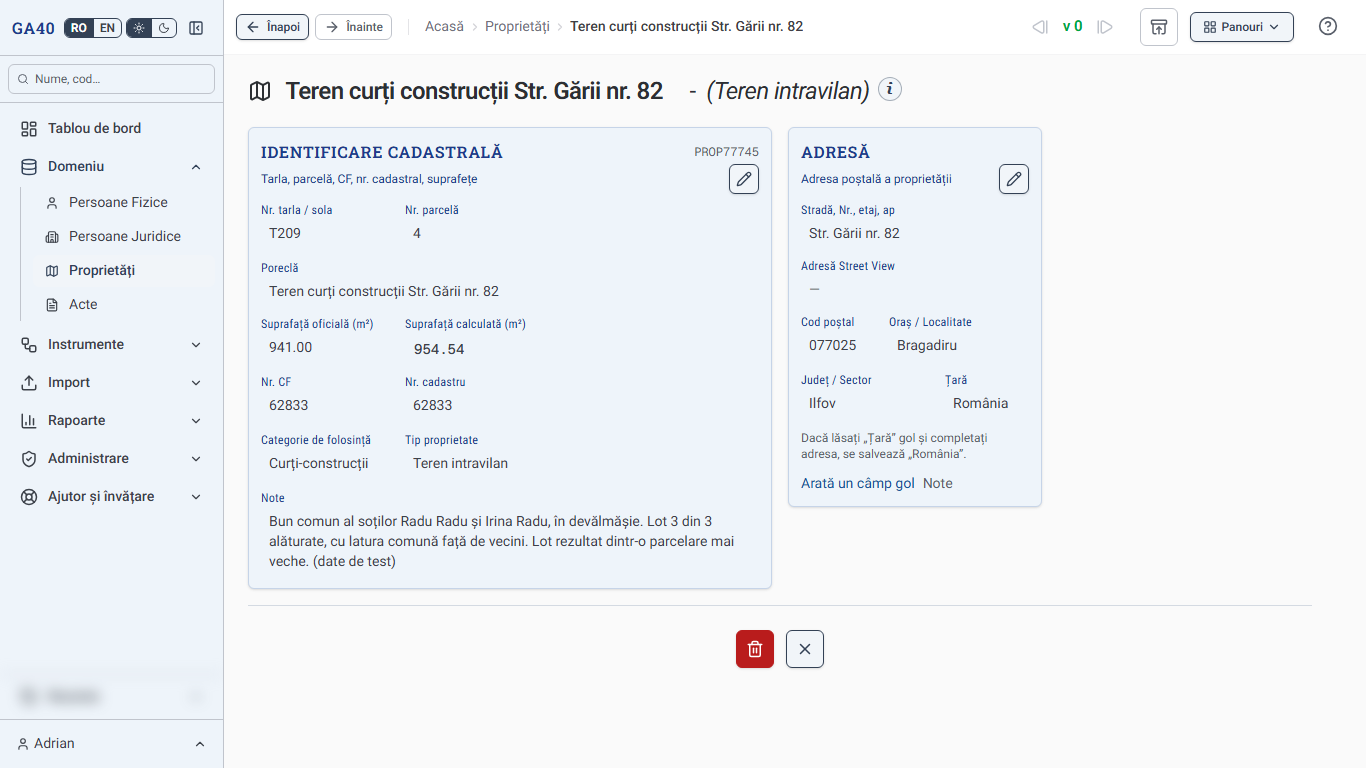
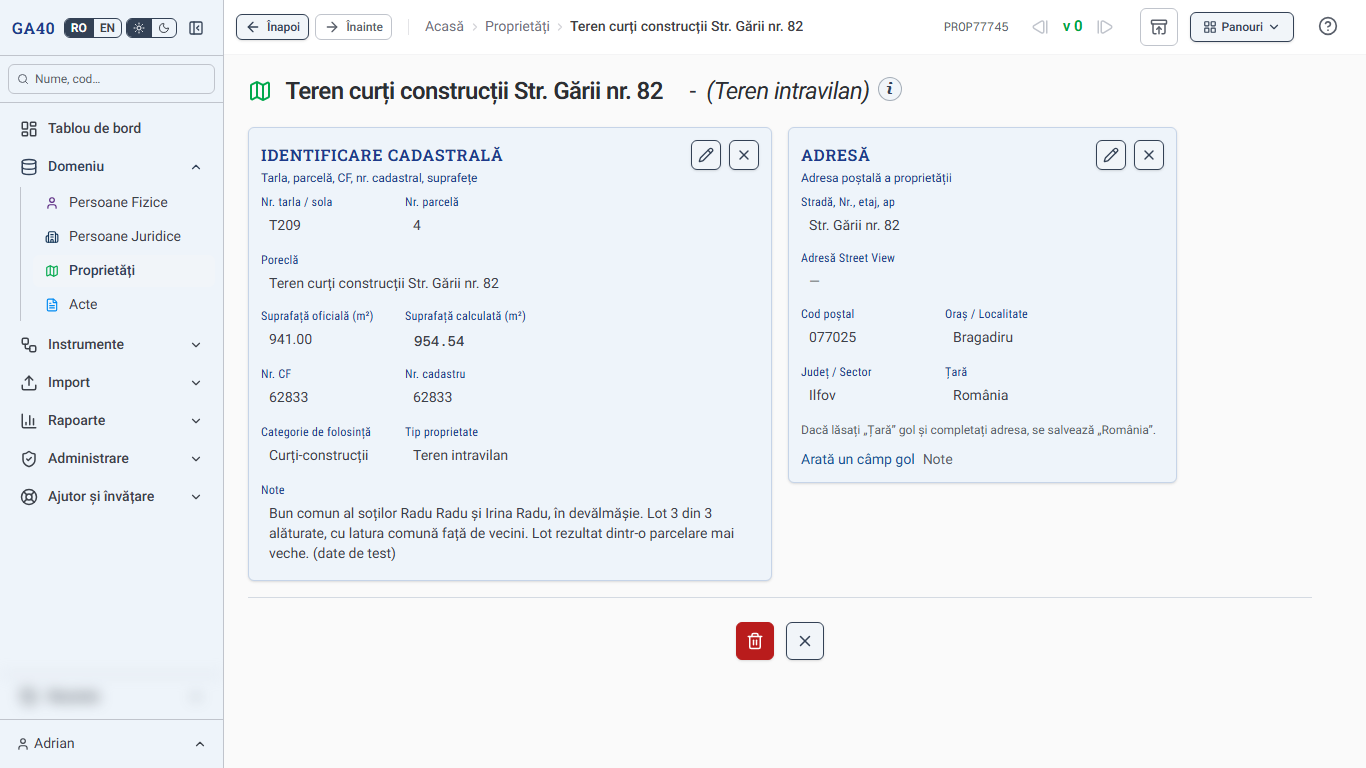
docs(manual): chapters 5, 8 and 9 after 41.13–41.85, and „Caută pe hartă" (41.93)
Both languages:
- chapter 5: the code in the bar, left of the versions (41.22); the address on
  two rows of pairs, „Țară" from „Țara adresei" (41.35, 41.51); the map, corners
  and Street View tiles green (41.68); „Colțuri"'s four buttons on one line
  (41.57); the parcel green on its map, its corners in the sides' colour (41.69);
  5.4.4 „Hartă extinsă" opening in two parts and closing in reverse, the lengths
  in „Setări" (41.69, 41.75, 41.77); „Navighează la …" (41.22);
- chapter 8: the shapes and drops green, champagne outlines (41.69); four groups
  on the toolbar, the search first (41.70); a new section 8.1.7 „Caută pe hartă"
  {#map-search} — what it finds, the flight and its two settings, more matches or
  none, the address look-up's charge (41.70, 41.76);
- chapter 9: the „Navigare" guide shows „Caută pe hartă" too (41.70).
Outline: map-search added; map-what, properties-corners-map,
properties-corners-expanded and tools-area say what their sections now hold.
The „Navigare" guide (messages, both languages) no longer says the flight
always takes four seconds: its length is set in „Setări" since 41.76.
Quiz corrected in place: properties-draw-corners a9, b9.
Figures re-shot from the dev seed, both languages, 0 maps: properties-list,
properties-record.

Claude-Session: https://claude.ai/code/session_011Fi7mpRoEhCFzhM2R3W5NG

diff --git a/src/lib/manual/content/ro-RO/08-map.ts b/src/lib/manual/content/ro-RO/08-map.ts
@@ -11,10 +11,11 @@ Câteva gesturi ale hărții nu se văd pe nicio etichetă: dublu-clicul, apăsa
 
 ## 8.1 Ce arată harta {#map-what}
 
-Ecranul se numește „Toate Proprietățile”. Harta se deschide potrivită astfel încât să încapă toate proprietățile pe care le desenează. Fiecare proprietate cu colțuri apare ca o formă albastră, cu laturile unite în ordinea colțurilor ei, iar colțurile ei sunt puncte mici de aceeași culoare. Când micșorați harta și o formă devine prea mică pentru a se citi, în locul ei apare o picătură (secțiunea [[map-what-drops]]). O proprietate fără colțuri nu are contur, deci nu apare pe hartă; colțurile i se pot adăuga oricând, în „Puncte de contur” (secțiunea [[properties-corners-table]]).
+Ecranul se numește „Toate Proprietățile”. Harta se deschide potrivită astfel încât să încapă toate proprietățile pe care le desenează. Fiecare proprietate cu colțuri apare ca o formă verde: laturile, unite în ordinea colțurilor ei, sunt verde închis, interiorul verde mai deschis, iar colțurile ei sunt puncte mici de culoarea laturilor. Când micșorați harta și o formă devine prea mică pentru a se citi, în locul ei apare o picătură (secțiunea [[map-what-drops]]). O proprietate fără colțuri nu are contur, deci nu apare pe hartă; colțurile i se pot adăuga oricând, în „Puncte de contur” (secțiunea [[properties-corners-table]]).
 
-Sus, pe hartă, stau butoanele ei. „HARTĂ” și „SATELIT” aleg harta străzilor sau imaginea din satelit, ca pe fișa „Hartă” a unei proprietăți. Celelalte butoane sunt uneltele hărții, în trei grupuri despărțite de un spațiu de două ori mai mare decât cel dintre butoane:
+Sus, pe hartă, stau butoanele ei. „HARTĂ” și „SATELIT” aleg harta străzilor sau imaginea din satelit, ca pe fișa „Hartă” a unei proprietăți. Celelalte butoane sunt uneltele hărții, în patru grupuri despărțite de un spațiu de două ori mai mare decât cel dintre butoane:
 
+- „Caută pe hartă” — o lupă —, primul din rând: găsește un singur loc și zboară până la el (secțiunea [[map-search]]);
 - cele care măsoară: „Unghiuri” și „Riglă” — un unghi și o distanță, dreaptă sau în zigzag (secțiunea [[map-ruler]]); „Suprafața unei zone delimitate” și „Suprafața unei zone oarecare” — suprafața unei zone (secțiunea [[map-area]]);
 - cele care grupează proprietățile: „Tarlale” — conturul fiecărei tarlale (secțiunea [[map-what-tarlale]]); „Grupuri” — alege ce proprietăți se văd (secțiunea [[map-what-groups]]); „Selectează” — alege proprietăți, ca să le puneți într-un grup (secțiunea [[map-select]]);
 - „Setări hartă” — distanța la care picăturile se unesc (secțiunea [[map-what-drops]]).
@@ -26,7 +27,7 @@ Harta se deschide din două locuri:
 - din lista „Proprietăți”, cu butonul „Hartă completă” — o săgeată și un glob cu două repere —, din dreapta, de lângă „Adaugă proprietate” (secțiunea [[properties-list]]). Bara de navigare arată atunci „Acasă › Proprietăți › Hartă completă”, iar un clic pe „Proprietăți” vă întoarce la listă. În bara laterală rămâne aprins „Proprietăți”;
 - din bara laterală, „Instrumente” → „Măsurători pe hartă” sau „Grupări de proprietăți”. Fiecare deschide o casetă cu butoanele despre care e vorba, desenate ca pe hartă, și ce face fiecare. „OK” deschide aceeași hartă, cu butoanele acelea pulsând împreună, de trei ori, într-un inel violet, ca să le găsiți ușor: „Unghiuri”, „Riglă” și cele două butoane de suprafață, respectiv „Tarlale”, „Grupuri” și „Selectează”. Niciunul nu se apasă singur: alegeți-l pe cel de care aveți nevoie (secțiunea [[tools-area]]).
 
-Al treilea ghid din „Instrumente”, „Navigare”, arată butonul „Navighează” și spune unde îl găsiți: pe ecranul proprietății și în bula unei proprietăți de pe hartă (secțiunea [[map-what-bubble]]). „OK” doar închide caseta.
+Al treilea ghid din „Instrumente”, „Navigare”, arată butonul „Navighează” și spune unde îl găsiți: pe ecranul proprietății și în bula unei proprietăți de pe hartă (secțiunea [[map-what-bubble]]). Arată și „Caută pe hartă”, lupa de pe harta aceasta (secțiunea [[map-search]]). „OK” doar închide caseta.
 
 ### 8.1.2 Bula unei proprietăți și dublu-clicul {#map-what-bubble}
 
@@ -51,14 +52,14 @@ La salvare, arhiva refuză de la început o a doua proprietate cu aceeași tarla
 
 ### 8.1.5 Picăturile și picăturile cu număr {#map-what-drops}
 
-Cât timp o proprietate este destul de mare pe ecran, harta îi desenează forma. Când micșorați harta și latura cea mai lungă a formei ajunge sub 24 de pixeli, în locul ei apare o **picătură** albastră, cu vârful în mijlocul proprietății. Fiecare proprietate se schimbă după mărimea ei: un câmp mare rămâne formă mult timp după ce un lot mic de lângă el a devenit picătură. Picătura are aceeași mărime oricât ați micșora harta.
+Cât timp o proprietate este destul de mare pe ecran, harta îi desenează forma. Când micșorați harta și latura cea mai lungă a formei ajunge sub 24 de pixeli, în locul ei apare o **picătură** verde, conturată în culoarea șampaniei, cu vârful în mijlocul proprietății. Fiecare proprietate se schimbă după mărimea ei: un câmp mare rămâne formă mult timp după ce un lot mic de lângă el a devenit picătură. Picătura are aceeași mărime oricât ați micșora harta.
 
-Picăturile ajunse prea aproape una de alta se unesc într-o **picătură cu număr**, mai mare, cu numărul proprietăților pe care le acoperă scris cu alb. Când se unesc și picături cu număr, numerele lor se adună. Când măriți harta, totul se desface în ordine inversă: picăturile cu număr se despart, iar picăturile redevin forme.
+Picăturile ajunse prea aproape una de alta se unesc într-o **picătură cu număr**, mai mare, cu numărul proprietăților pe care le acoperă scris tot în culoarea șampaniei. Când se unesc și picături cu număr, numerele lor se adună. Când măriți harta, totul se desface în ordine inversă: picăturile cu număr se despart, iar picăturile redevin forme.
 
 - Un clic pe o picătură deschide aceeași bulă ca un clic pe forma proprietății, cu „Deschide” și „Navighează” (secțiunea [[map-what-bubble]]).
 - Un clic pe o picătură cu număr mărește harta cât să încapă proprietățile ei. Dacă harta nu se mai poate mări, se deschide bula cu lista lor.
 
-Culorile spun ce spun și la forme: roșu, o proprietate selectată (secțiunea [[map-select]]); roz intermitent, o proprietate duplicată (secțiunea [[map-what-duplicates]]). Două proprietăți duplicate au aceleași colțuri, așa că, de departe, ajung mereu în aceeași picătură cu număr, care clipește în roz. O picătură cu număr este roșie dacă are în ea o proprietate selectată.
+Culorile spun ce spun și la forme: roșu, o proprietate selectată (secțiunea [[map-select]]); roz intermitent, o proprietate duplicată (secțiunea [[map-what-duplicates]]). Două proprietăți duplicate au aceleași colțuri, așa că, de departe, ajung mereu în aceeași picătură cu număr, care clipește în roz. O picătură cu număr este roșie dacă are în ea o proprietate selectată. Pe o picătură roșie sau roz, conturul și numărul sunt albe.
 
 „Setări hartă”, din bara hărții, alege distanța sub care picăturile se unesc: „Picăturile se unesc sub” între 20 și 80 de pixeli, implicit 40. O distanță mai mică arată mai multe picături, una mai mare mai puține. Alegerea se păstrează în browserul în care ați făcut-o; alt calculator sau alt browser pornește de la 40.
 
@@ -69,6 +70,22 @@ Culorile spun ce spun și la forme: roșu, o proprietate selectată (secțiunea 
 Conturul unei tarlale sunt colțurile ei, dacă au fost introduse pe pagina tarlalei (secțiunea [[properties-tarla]]). Altfel este forma din jurul tuturor proprietăților tarlalei care au colțuri — cea mai mică formă fără adâncituri care le cuprinde pe toate. Crește pe măsură ce arhiva crește și nu este o limită oficială: nicio sursă publică nu dă limitele tarlalelor. O tarla fără colțuri și fără proprietăți cu colțuri nu are contur.
 
 Codul tarlalei apare pe contur când apropiați harta la câțiva kilometri. Un clic pe contur sau pe cod deschide pagina tarlalei.
+
+### 8.1.7 „Caută pe hartă” {#map-search}
+
+„Caută pe hartă”, primul buton din bara hărții — o lupă —, găsește un singur loc și zboară până la el. Apăsat, deschide sub el o casetă. Deasupra ei, un rând spune că această căutare găsește un singur loc, iar pentru mai multe proprietăți deodată trimite, printr-un link, la „Căutare globală” (secțiunea [[reports-search]]). Scrieți ce căutați și apăsați Enter sau „Caută”, lupa de lângă casetă; tasta Escape închide caseta.
+
+Caseta înțelege, în ordinea aceasta:
+
+- **un număr** — de exemplu 42 sau PROP42 — este numărul unei proprietăți: 42 găsește proprietatea cu codul PROP00042;
+- **un nume de pe hartă** — porecla unei proprietăți, apoi codul unei tarlale: scris întreg, doar începutul lui sau o parte din el, cu sau fără diacritice și majuscule;
+- **o adresă** — o stradă cu număr, o stradă, o localitate sau un județ —, pe care o caută Google. Doar un text pe care harta nu-l găsește printre proprietăți și tarlale ajunge la Google, iar fiecare asemenea căutare este una pe care Google o taxează.
+
+Harta zboară apoi la locul găsit, implicit în patru secunde: urcă întâi, pe un arc, până se văd și locul de acum, și cel găsit, apoi coboară pe el. O proprietate sau o tarla ajunge la mijloc, cam cât o zecime din hartă, iar proprietatea clipește când harta ajunge la ea; o adresă cu număr se arată de aproape, cu un semn care se stinge după câteva secunde; o stradă, o localitate sau un județ umplu harta. O tragere a hărții sau rotița mouse-ului opresc zborul acolo unde a ajuns.
+
+Când locul găsit este singurul, caseta se închide. Când mai sunt și alte potriviri, caseta rămâne deschisă și spune câte — de exemplu „Încă o potrivire” —, cu un link la „Căutare globală”, unde le vedeți pe toate. Când nu se găsește nimic, caseta spune că nu s-a găsit nimic pentru ce ați scris și că „Harta a rămas unde era.”
+
+Zborul se reglează în „Setări”, la „Praguri de timp”, în grupa „Hărți” (secțiunea [[admin-settings-thresholds]]): cât durează, implicit 4 secunde — cu 0, harta sare direct la locul găsit —, și cât de sus urcă arcul, coeficientul a, implicit 1 — cu 0, zborul alunecă drept, fără să urce, iar cu 2 urcă de două ori mai sus. Aceleași două valori le folosește și „Hartă extinsă” când se întoarce, pe arc, înainte să se închidă (secțiunea [[properties-corners-expanded]]).
 
 ## 8.2 Selecția {#map-select}
 

diff --git a/src/lib/manual/content/en-GB/08-map.ts b/src/lib/manual/content/en-GB/08-map.ts
@@ -11,10 +11,11 @@ A few of the map's gestures are not shown on any label: the double-click, clicki
 
 ## 8.1 What the map shows {#map-what}
 
-The screen is called „All Properties”. The map opens fitted so that every property it draws fits on it. Each property with corners appears as a blue shape, its sides joined in the order of its corners, and its corners are small dots of the same colour. When you zoom out and a shape becomes too small to read, a drop appears in its place (section [[map-what-drops]]). A property without corners has no outline, so it does not appear on the map; corners can be added to it at any time, in „Corners” (section [[properties-corners-table]]).
+The screen is called „All Properties”. The map opens fitted so that every property it draws fits on it. Each property with corners appears as a green shape: its sides, joined in the order of its corners, are dark green, its inside a lighter green, and its corners are small dots the colour of its sides. When you zoom out and a shape becomes too small to read, a drop appears in its place (section [[map-what-drops]]). A property without corners has no outline, so it does not appear on the map; corners can be added to it at any time, in „Corners” (section [[properties-corners-table]]).
 
-At the top of the map are its buttons. „STR” and „SAT” choose the street map or the satellite image, as on a property's „Map” tile. The other buttons are the map's tools, in three groups set apart by a space twice the one between the buttons:
+At the top of the map are its buttons. „STR” and „SAT” choose the street map or the satellite image, as on a property's „Map” tile. The other buttons are the map's tools, in four groups set apart by a space twice the one between the buttons:
 
+- „Search the map” — a magnifier —, first in the row: finds a single place and flies to it (section [[map-search]]);
 - the ones that measure: „Angles” and „Ruler” — an angle and a distance, straight or zigzag (section [[map-ruler]]); „Area of a delimited zone” and „Area of any zone” — the area of a zone (section [[map-area]]);
 - the ones that group the properties: „Tarlale” — each tarla's outline (section [[map-what-tarlale]]); „Groups” — chooses which properties are shown (section [[map-what-groups]]); „Select” — picks properties, to put them in a group (section [[map-select]]);
 - „Map settings” — the distance at which drops merge (section [[map-what-drops]]).
@@ -26,7 +27,7 @@ The map opens from two places:
 - from the „Properties” list, with the „Full map” button — an arrow and a globe with two pins —, on the right, beside „Add new Property” (section [[properties-list]]). The navigation bar then reads „Home › Properties › Full map”, and a click on „Properties” takes you back to the list. In the sidebar, „Properties” stays lit;
 - from the sidebar, „Tools” → „Measurements on map” or „Groupings of properties”. Each opens a box with the buttons it is about, drawn as on the map, and what each does. „OK” opens the same map, with those buttons pulsing together, three times, in a violet ring, so that you find them easily: „Angles”, „Ruler” and the two area buttons, or „Tarlale”, „Groups” and „Select”. None is pressed for you: choose the one you need (section [[tools-area]]).
 
-The third guide under „Tools”, „Navigation”, shows the „Navigate” button and says where you find it: on the property's screen and in a property's bubble on the map (section [[map-what-bubble]]). „OK” only closes the box.
+The third guide under „Tools”, „Navigation”, shows the „Navigate” button and says where you find it: on the property's screen and in a property's bubble on the map (section [[map-what-bubble]]). It also shows „Search the map”, the magnifier on this map (section [[map-search]]). „OK” only closes the box.
 
 ### 8.1.2 A property's bubble and the double-click {#map-what-bubble}
 
@@ -51,14 +52,14 @@ On saving, the archive refuses from the start a second property with the same ta
 
 ### 8.1.5 Drops and numbered drops {#map-what-drops}
 
-While a property is large enough on screen, the map draws its shape. When you zoom out and the longer side of the shape falls under 24 pixels, a blue **drop** appears in its place, its tip at the middle of the property. Each property changes on its own size: a large field stays a shape long after a small lot beside it has become a drop. A drop stays the same size however far you zoom out.
+While a property is large enough on screen, the map draws its shape. When you zoom out and the longer side of the shape falls under 24 pixels, a green **drop** appears in its place, outlined in champagne, its tip at the middle of the property. Each property changes on its own size: a large field stays a shape long after a small lot beside it has become a drop. A drop stays the same size however far you zoom out.
 
-Drops that come too close to one another merge into a **numbered drop**, larger, with the number of properties it covers written in white. When numbered drops merge too, their numbers add up. When you zoom in, everything comes apart in reverse: numbered drops split, and drops become shapes again.
+Drops that come too close to one another merge into a **numbered drop**, larger, with the number of properties it covers written in champagne too. When numbered drops merge too, their numbers add up. When you zoom in, everything comes apart in reverse: numbered drops split, and drops become shapes again.
 
 - A click on a drop opens the same bubble as a click on the property's shape, with „Open” and „Navigate” (section [[map-what-bubble]]).
 - A click on a numbered drop zooms the map in until its properties fit. If the map cannot zoom in any further, the bubble opens with the list of them.
 
-The colours say what they say on the shapes: red, a selected property (section [[map-select]]); blinking pink, a duplicate property (section [[map-what-duplicates]]). Two duplicate properties have the same corners, so from afar they always end up in the same numbered drop, which blinks pink. A numbered drop is red when a selected property is in it.
+The colours say what they say on the shapes: red, a selected property (section [[map-select]]); blinking pink, a duplicate property (section [[map-what-duplicates]]). Two duplicate properties have the same corners, so from afar they always end up in the same numbered drop, which blinks pink. A numbered drop is red when a selected property is in it. On a red or pink drop, the outline and the number are white.
 
 „Map settings”, on the map's toolbar, chooses the distance under which drops merge: „Drops merge under” between 20 and 80 pixels, 40 by default. A smaller distance shows more drops, a larger one fewer. The choice is kept in the browser where you made it; another computer or another browser starts from 40.
 
@@ -69,6 +70,22 @@ The colours say what they say on the shapes: red, a selected property (section [
 A tarla's outline is its own corners, if they were entered on the tarla's page (section [[properties-tarla]]). Otherwise it is the shape around all the tarla's properties that have corners — the smallest shape without dents that holds them all. It grows as the archive grows, and it is not an official boundary: no public source gives tarla boundaries. A tarla with no corners and no properties with corners has no outline.
 
 The tarla's code appears on the outline when you zoom the map in to a few kilometres. A click on the outline or on the code opens the tarla's page.
+
+### 8.1.7 „Search the map” {#map-search}
+
+„Search the map”, the first button on the map's toolbar — a magnifier —, finds a single place and flies to it. Pressed, it opens a box under it. Above the box, a line says that this search finds one place, and for several properties at once it sends you, through a link, to „Global Search” (section [[reports-search]]). Type what you are looking for and press Enter or „Search”, the magnifier beside the box; the Escape key closes the box.
+
+The box understands, in this order:
+
+- **a number** — for example 42 or PROP42 — is a property's number: 42 finds the property with the code PROP00042;
+- **a name on the map** — a property's nickname, then a tarla's code: written in full, only its beginning or a part of it, with or without diacritics and capitals;
+- **an address** — a street with a number, a street, a locality or a county —, which Google looks up. Only a text the map does not find among the properties and tarlale reaches Google, and each such search is one Google charges for.
+
+The map then flies to the place found, in four seconds by default: it first rises, on an arc, until both the place you are at and the place found are in view, then comes down onto it. A property or a tarla lands in the middle, about a tenth of the map, and the property blinks when the map reaches it; an address with a number is shown close up, with a marker that fades after a few seconds; a street, a locality or a county fills the map. Dragging the map or turning the mouse wheel stops the flight where it has got to.
+
+When the place found is the only one, the box closes. When there are other matches, the box stays open and says how many — for example „One more match” —, with a link to „Global Search”, where you see them all. When nothing is found, the box says that nothing was found for what you typed and that „The map stayed where it was.”
+
+The flight is set in „Settings”, under „Time thresholds”, in the „Maps” group (section [[admin-settings-thresholds]]): how long it lasts, 4 seconds by default — with 0 the map jumps straight to the place found —, and how high the arc rises, the coefficient a, 1 by default — with 0 the flight glides straight, without rising, and with 2 it rises twice as high. „Expand map” uses the same two values when it returns, on the arc, before closing (section [[properties-corners-expanded]]).
 
 ## 8.2 Selecting {#map-select}
 

diff --git a/src/lib/manual/content/ro-RO/05-properties.ts b/src/lib/manual/content/ro-RO/05-properties.ts
@@ -13,7 +13,7 @@ Deschideți „Domeniu” în bara laterală, apoi „Proprietăți”. Se desch
 
 Caseta de căutare din capul listei caută după „Cod”, „Poreclă”, „Nr. cadastru”, „Nr. CF”, „Tarla/Solă” și „Parcelă” — așa scrie și în ea; țineți mouse-ul pe ea ca să citiți textul întreg. Filtrele listei se pun din coloane (secțiunea [[properties-list-filters]]). Sub tabel, „Se afișează … din …” spune câte proprietăți vedeți din câte sunt.
 
-Prima coloană este „Poreclă”, numele pe care îl dați proprietății; „Nou!” stă în ea, după poreclă, și „Încrucișat” după el, la o proprietate cu colțurile încrucișate. Ea se vede întotdeauna și nu apare printre opțiunile din „Câmpuri afișate”; o puteți muta, ca orice coloană, trăgând-o de nume (secțiunea [[start-lists]]). Codul proprietății nu are coloană în listă; îl găsiți pe ecranul proprietății, în colțul primei fișe.
+Prima coloană este „Poreclă”, numele pe care îl dați proprietății; „Nou!” stă în ea, după poreclă, și „Încrucișat” după el, la o proprietate cu colțurile încrucișate. Ea se vede întotdeauna și nu apare printre opțiunile din „Câmpuri afișate”; o puteți muta, ca orice coloană, trăgând-o de nume (secțiunea [[start-lists]]). Codul proprietății nu are coloană în listă; îl găsiți pe ecranul proprietății, în bara de sus, la stânga versiunilor (secțiunea [[links-versions]]).
 
 „Câmpuri afișate” adaugă până la patru coloane după „Poreclă”. Puteți alege dintre câmpurile cadastrale și localitate, cu numele lor scurte:
 
@@ -85,7 +85,7 @@ Când apăsați „Salvează” pe o proprietate nouă, vă întoarceți în lis
 
 ### 5.2.2 Adresa {#properties-add-address}
 
-Fișa „Adresă” are câmpurile „Stradă, Nr., etaj, ap”, „Cod poștal”, „Oraș / Localitate”, „Județ / Sector”, „Țară” și „Note”. Dacă lăsați „Țară” gol și completați adresa, se salvează „România”.
+Fișa „Adresă” are câmpurile „Stradă, Nr., etaj, ap”, „Cod poștal”, „Oraș / Localitate”, „Județ / Sector”, „Țară” și „Note”. „Cod poștal” și „Oraș / Localitate” stau pe un rând, „Județ / Sector” și „Țară” pe rândul de sub el, aliniate ca pe adresa unei persoane. „Țară” se alege dintr-o listă, „Țara adresei” din „Date de referință” (secțiunea [[admin-reference-data]]); o țară salvată înainte, pe care lista n-o are, rămâne printre opțiuni. Dacă lăsați „Țară” gol și completați adresa, se salvează „România”.
 
 „Preia din Street View” completează câmpul „Adresă Street View” cu adresa pe care Google o găsește la centrul colțurilor. Are nevoie de cel puțin un colț și scrie peste ce era în câmp, așa că verificați rezultatul. Fiecare clic este o căutare pe care Google o taxează.
 
@@ -146,7 +146,7 @@ Bifele din „Panouri” („Părți afișate”) aleg fișele, ca pe orice obie
 | Puncte de contur | Colțurile parcelei, în ordine (secțiunea [[properties-corners-table]]). |
 | Street View | Imaginea străzii de lângă parcelă (secțiunea [[properties-corners-street-view]]). |
 
-„Implicit” arată „Identificare cadastrală”, „Adresă”, „Hartă” și „Puncte de contur”. Fișele „Hartă”, „Puncte de contur” și „Street View” pornesc din dreapta, una sub alta, sunt mov deschis și se trag în alt loc ca orice fișă (secțiunea [[start-tiles]]). Pe un ecran îngust, coboară sub celelalte fișe.
+„Implicit” arată „Identificare cadastrală”, „Adresă”, „Hartă” și „Puncte de contur”. Fișele „Hartă”, „Puncte de contur” și „Street View” pornesc din dreapta, una sub alta, sunt verzi și se trag în alt loc ca orice fișă (secțiunea [[start-tiles]]). Pe un ecran îngust, coboară sub celelalte fișe.
 
 Când debifați fișele de hartă, ecranul arată doar datele: identificarea cadastrală și adresa (Figura [[fig-properties-record]]).
 
@@ -164,7 +164,7 @@ Forma parcelei o dau colțurile ei, în ordinea în care sunt unite. Le vedeți 
 
 Tabelul are coloanele „Nr.” (ordinea), „Nr. orig.” (numărul colțului în fișierul sau planul din care vine), apoi coordonatele. „Afișare:” alege cum se arată coordonatele: „DD” (grade zecimale), „DMS” (grade, minute, secunde) sau „Stereo 70” (Nord și Est, în metri). În același fel le și scrieți.
 
-Fiecare rând are patru butoane:
+Fiecare rând are patru butoane, mereu pe același rând, oricare ar fi „Afișare:”-ul:
 
 - „Mută mai sus” și „Mută mai jos” — schimbă ordinea colțurilor, deci și forma parcelei;
 - „Editează” — face din rând câmpuri de scris, cu „Salvează” și „Anulează” pe rând. Butoanele rândurilor și „+ Adaugă punct” stau acolo cât timp „Puncte de contur” este deschisă cu „Editează”-ul fișei; un colț tras pe hartă o deschide singur;
@@ -186,7 +186,7 @@ Fișa „Hartă” desenează parcela. Are deasupra titlul ei, ca orice fișă; 
 - „Navighează” — traseul până la proprietate (secțiunea [[properties-navigate]]);
 - „HARTĂ” și „SATELIT” — harta străzilor sau imaginea din satelit.
 
-Colțurile proprietății sunt puncte mici, albastre, de culoarea laturilor, ca pe harta completă (secțiunea [[map-what]]). Când treceți cu mouse-ul peste un rând din „Puncte de contur”, colțul lui primește un cerc în jur.
+Proprietatea are laturile verde închis și interiorul verde mai deschis, iar colțurile ei sunt puncte mici de culoarea laturilor, ca pe harta completă (secțiunea [[map-what]]). Când treceți cu mouse-ul peste un rând din „Puncte de contur”, colțul lui primește un cerc în jur.
 
 ### 5.4.3 Desenarea și tragerea colțurilor {#properties-corners-draw}
 
@@ -199,9 +199,11 @@ Un colț așezat greșit se corectează trăgându-l cu mouse-ul pe hartă. Tabe
 
 ### 5.4.4 Harta extinsă {#properties-corners-expanded}
 
-„Hartă extinsă” deschide harta pe tot ecranul, centrată pe proprietate și la scara de pe fișă, așa că proprietatea are aceeași mărime ca acolo. Proprietatea este roșie, cu colțurile ei roșii, iar în jurul ei stau toate celelalte proprietăți din arhivă, albastre, cum le arată harta completă — de departe, picături (secțiunea [[map-what]]). Celelalte proprietăți sunt doar de privit: un clic pe ele nu face nimic.
+„Hartă extinsă” deschide harta pe tot ecranul, în două părți. Întâi fișa „Hartă” crește până umple fereastra, iar proprietatea pleacă de unde stă în fișă spre mijloc, la aceeași mărime; apoi harta se depărtează până când proprietatea are cam o zecime din înălțimea hărții. O tragere a hărții sau rotița mouse-ului opresc deschiderea acolo unde a ajuns. Proprietatea este roșie, cu colțurile ei roșii, iar în jurul ei stau toate celelalte proprietăți din arhivă, verzi, cum le arată harta completă — de departe, picături (secțiunea [[map-what]]). Celelalte proprietăți sunt doar de privit: un clic pe ele nu face nimic.
 
-Harta extinsă are „Desenează”, „Arată Unghiuri” și „HARTĂ” / „SATELIT”. Un colț desenat sau tras aici este colțul acestei proprietăți. „Restrânge” sau tasta Escape închide harta extinsă și vă întoarce la fișă, cu desenul păstrat.
+Harta extinsă are „Desenează”, „Arată Unghiuri” și „HARTĂ” / „SATELIT”. Un colț desenat sau tras aici este colțul acestei proprietăți. „Restrânge”, tasta Escape sau un clic în afara hărții o închid pe același drum, invers: harta se apropie din nou la scara fișei, apoi se strânge înapoi în fișă, cu desenul păstrat. Dacă între timp ați mutat sau ați apropiat harta, întâi se întoarce, pe un arc, acolo unde se terminase deschiderea. O a doua apăsare, cât timp se închide, o închide pe loc.
+
+Cât durează cele două părți se alege în „Setări”, la „Praguri de timp”, în grupa „Hărți” (secțiunea [[admin-settings-thresholds]]): implicit câte 3 secunde, iar 0 sare peste partea aceea. Întoarcerea pe arc ține cât zborul lui „Caută pe hartă” (secțiunea [[map-search]]).
 
 ### 5.4.5 Fișa „Street View” {#properties-corners-street-view}
 
@@ -233,7 +235,7 @@ Restul datelor cadastrale — numărul cadastral, cartea funciară, suprafața d
 
 ## 5.6 „Navighează” {#properties-navigate}
 
-„Navighează”, pe rândul de sus al fișei „Hartă”, vă ajută să ajungeți la proprietate cu mașina. Se deschide o fereastră cu traseul în Google Maps și cu același traseu sub forma unui cod QR, pentru telefon.
+„Navighează”, pe rândul de sus al fișei „Hartă”, vă ajută să ajungeți la proprietate cu mașina. Se deschide o fereastră cu traseul în Google Maps și cu același traseu sub forma unui cod QR, pentru telefon. Titlul ferestrei, „Navighează la …”, poartă porecla proprietății; una fără poreclă deschide „Navighează la proprietate”.
 
 Destinația o alege aplicația:
 

diff --git a/src/lib/manual/outline/ro-RO.ts b/src/lib/manual/outline/ro-RO.ts
@@ -78,9 +78,9 @@ export const OUTLINE: Readonly<Record<string, string>> = {
   "properties-type-hidden": "De ce „Adresă” și „Street View” sunt gri și nu se pot bifa la unele tipuri de proprietate, cum e terenul arabil fără adresă poștală.",
   "properties-corners": "Cum dau colțurile (punctele de contur) forma parcelei și cum lucrează împreună tabelul colțurilor și harta, chiar înainte de salvare.",
   "properties-corners-table": "Cum adaugi, editezi, muți sau ștergi colțuri, schimbi afișarea coordonatelor (DD, DMS, Stereo 70) și îndrepți o ordine a colțurilor care se încrucișează.",
-  "properties-corners-map": "Ce fac butoanele hărții unei proprietăți: hartă extinsă, desenare, unghiuri, hartă de străzi sau satelit; colțurile, puncte mici albastre; și unde găsești „Navighează”.",
+  "properties-corners-map": "Ce fac butoanele hărții unei proprietăți: hartă extinsă, desenare, unghiuri, hartă de străzi sau satelit; colțurile, puncte mici verzi; și unde găsești „Navighează”.",
   "properties-corners-draw": "Cum desenezi conturul unui teren pe hartă cu clicuri, cum închizi forma și cum tragi (muți) cu mouse-ul un colț pus greșit.",
-  "properties-corners-expanded": "Cum deschizi harta proprietății pe tot ecranul, cu ea în roșu, la mijloc, și toate celelalte proprietăți în jur; ce poți desena acolo și cum revii la fișă cu „Restrânge” sau Escape.",
+  "properties-corners-expanded": "Cum se deschide harta proprietății pe tot ecranul, crescând din fișă, cu ea în roșu, la mijloc, și toate celelalte proprietăți în jur; ce poți desena acolo și cum revii la fișă cu „Restrânge” sau Escape, harta strângându-se înapoi în ea.",
   "properties-corners-street-view": "Cum vezi strada de lângă parcelă în Street View, de ce fișa e oprită până o bifezi (Google taxează) și ce înseamnă când nu are imagini.",
   "properties-coord-file": "Cum imporți o proprietate dintr-un fișier .txt cu coordonate Stereo 70 de la topograf: formatul, tarlaua și parcela cerute, o parcelă care are deja una.",
   "properties-navigate": "Cum ajungi la teren cu mașina: traseu în Google Maps și cod QR pentru telefon, de unde pornești și de ce butonul „Navighează” poate fi inactiv.",
@@ -131,13 +131,14 @@ export const OUTLINE: Readonly<Record<string, string>> = {
   "links-example-title": "Exemplu: legi certificatul de moștenitor de contractul de vânzare cu „Titlu anterior al”, ca să arăți de unde vine dreptul vânzătorului.",
   "links-example-group": "Exemplu: strângi câteva terenuri într-un grup pentru o evaluare, le găsești în Căutare globală după codul grupului, apoi ștergi grupul.",
   "links-example-version": "Exemplu: readuci prenumele vechi al unei persoane după o corectură greșită, găsind versiunea veche și apăsând „Fă curentă”.",
-  "map-what": "Ce arată harta tuturor proprietăților, de ce un teren fără colțuri nu apare pe ea și ce unelte are, în trei grupuri (unghiuri, riglă, suprafață; tarlale, grupuri, selecție; setări).",
+  "map-what": "Ce arată harta tuturor proprietăților, de ce un teren fără colțuri nu apare pe ea și ce unelte are, în patru grupuri (căutarea; unghiuri, riglă, suprafață; tarlale, grupuri, selecție; setări).",
   "map-what-open": "Cum deschizi harta completă a proprietăților: din lista proprietăților sau din ghidurile din Instrumente (Măsurători pe hartă, Grupări de proprietăți), care arată butoanele clipind.",
   "map-what-bubble": "Cum deschizi o proprietate de pe hartă: clic pentru bula cu Deschide și Navighează, sau dublu-clic ca să intri direct.",
   "map-what-duplicates": "Ce înseamnă o proprietate care clipește roz pe hartă: un teren dublură, trecut de două ori în arhivă, și ce faci cu el.",
   "map-what-groups": "Cum alegi ce proprietăți arată harta cu filtrul Grupuri: toate, cele fără grup sau doar terenurile unui grup.",
   "map-what-drops": "Ce sunt picăturile și picăturile cu număr de pe harta micșorată, ce face un clic pe ele și cum alegi în Setări hartă distanța la care se unesc.",
   "map-what-tarlale": "Stratul „Tarlale” al hărții: conturul fiecărei tarlale, din colțurile ei sau din forma din jurul proprietăților, codul ei și cum deschizi tarlaua.",
+  "map-search": "Cum găsești pe harta tuturor proprietăților un singur loc cu „Caută pe hartă”: un număr, o poreclă, o tarla sau o adresă; zborul hărții până la el și unde îi alegi durata și arcul.",
   "map-select": "Cum alegi proprietăți pe hartă cu clicuri și le adaugi la un grup existent sau nou cu Adaugă la grup; selecția nu șterge nimic.",
   "map-ruler": "Cum măsori pe hartă distanțe și unghiuri, fără să schimbi sau să salvezi ceva.",
   "map-ruler-distance": "Cum măsori cu rigla un zigzag punct cu punct sau distanța dintre două puncte: lungimea fiecărei laturi din total, terminarea cu încă un clic pe ultimul punct, fixarea pe colț.",
@@ -163,7 +164,7 @@ export const OUTLINE: Readonly<Record<string, string>> = {
   "tools-side-road-road": "Cum alegi colțul și latura pe care merge drumul, cum se calculează lungimea, suprafața și cota fiecăruia și ce faci când drumul ales nu e posibil.",
   "tools-side-road-create": "Cum creezi efectiv proprietățile și grupul din calcul, ce descriere și poreclă primesc și cum se leagă fiecare proprietar de proprietatea lui, ca Proprietar.",
   "tools-side-road-history": "Unde găsești calculele făcute, cum vezi detaliile și proprietatea împărțită, cum reiei (re-rulezi) un calcul pe aceleași colțuri și cum îl ștergi, proprietățile create rămânând.",
-  "tools-area": "Cele trei ghiduri ale hărții din Instrumente (Măsurători pe hartă, Grupări de proprietăți, Navigare): ce butoane arată și cum deschid harta cu butoanele clipind.",
+  "tools-area": "Cele trei ghiduri ale hărții din Instrumente (Măsurători pe hartă, Grupări de proprietăți, Navigare): ce butoane arată — și „Caută pe hartă” — și cum deschid harta cu butoanele clipind.",
   "tools-examples": "Exemple pas cu pas: formularul unui tip de act fără formular, împărțirea unui teren între moștenitori cu drum și refacerea unui calcul greșit.",
   "tools-example-form": "Pași concreți când importul s-a oprit pentru un tip fără formular: pui mostrele într-un folder, le citești în Distilare Tipizate, aprobi și reiei.",
   "tools-example-road": "Pași concreți pentru a împărți un teren între trei moștenitori cu drum de acces: fișierul, ordinea, drumul, crearea proprietăților și legarea lor.",

diff --git a/src/lib/manual/outline/en-GB.ts b/src/lib/manual/outline/en-GB.ts
@@ -78,9 +78,9 @@ export const OUTLINE: Readonly<Record<string, string>> = {
   "properties-type-hidden": "Why „Address” and „Street View” are greyed out and cannot be ticked for some property types, such as arable land with no postal address.",
   "properties-corners": "How a parcel's corners (boundary points) give it its shape, and how the corner table and the map work together, even before saving.",
   "properties-corners-table": "How to add, edit, reorder or delete corners, switch coordinates between DD, DMS and Stereo 70, and straighten a corner order whose sides cross.",
-  "properties-corners-map": "What the buttons on a property's map do: expand, draw, show angles, street map or satellite; the corners, small blue dots; and where to find „Navigate”.",
+  "properties-corners-map": "What the buttons on a property's map do: expand, draw, show angles, street map or satellite; the corners, small green dots; and where to find „Navigate”.",
   "properties-corners-draw": "How to draw a plot's outline on the map by clicking, close the shape, and drag a misplaced corner with the mouse to fix it.",
-  "properties-corners-expanded": "How to open the property's map full-screen, the property red in the middle and every other property around it; what you can draw there, and how to go back to the tile with „Collapse” or Escape.",
+  "properties-corners-expanded": "How the property's map opens full-screen, growing out of the tile, the property red in the middle and every other property around it; what you can draw there, and how to go back to the tile with „Collapse” or Escape, the map shrinking back into it.",
   "properties-corners-street-view": "How to see the street next to the parcel in Street View, why the tile is off until ticked (Google charges) and what it means when there are no images.",
   "properties-coord-file": "How to import a property from a surveyor's .txt file of Stereo 70 coordinates: the file format, the tarla and parcela asked for, and a parcel that already has one.",
   "properties-navigate": "How to drive to the plot: a Google Maps route and a QR code for your phone, choosing where you start, and why „Navigate” may be inactive.",
@@ -131,13 +131,14 @@ export const OUTLINE: Readonly<Record<string, string>> = {
   "links-example-title": "Worked example: link the certificate of inheritance to the sale contract as „Titlu anterior al” to show where the seller's right comes from.",
   "links-example-group": "Worked example: gather a few plots into a group for a valuation, find them in Global Search by the group code, then delete the group.",
   "links-example-version": "Worked example: restore a person's old first name after a wrong correction, by finding the earlier version and pressing „Make Current”.",
-  "map-what": "What the map of all properties shows, why a plot without corners is missing from it, and which tools it has, in three groups (angles, ruler, area; tarlale, groups, select; settings).",
+  "map-what": "What the map of all properties shows, why a plot without corners is missing from it, and which tools it has, in four groups (the search; angles, ruler, area; tarlale, groups, select; settings).",
   "map-what-open": "How to open the full map of properties: from the properties list, or from the guides under Tools (Measurements on map, Groupings of properties), which show the buttons blinking.",
   "map-what-bubble": "How to open a property from the map: a click for the bubble with Open and Navigate, or a double-click to go straight to it.",
   "map-what-duplicates": "What a property blinking pink on the map means: a duplicate plot entered twice in the archive, and what to do about it.",
   "map-what-groups": "How to choose which properties the map shows with the Groups filter: all, those in no group, or only one group's plots.",
   "map-what-drops": "What the drops and numbered drops on a zoomed-out map are, what a click on them does, and how Map settings chooses the distance at which they merge.",
   "map-what-tarlale": "The map's „Tarlale” layer: each tarla's outline, from its corners or the shape around its properties, its code, and how to open the tarla.",
+  "map-search": "How to find one place on the map of all properties with „Search the map”: a number, a nickname, a tarla or an address; the map's flight to it, and where its length and arc are set.",
   "map-select": "How to pick properties on the map with clicks and add them to an existing or new group with Add to group; the selection deletes nothing.",
   "map-ruler": "How to measure distances and angles on the map, without changing or saving anything.",
   "map-ruler-distance": "How to measure a zigzag point by point with the ruler, or the distance between two points: each side out of the total, finishing on the last point again, snapping to a corner.",
@@ -163,7 +164,7 @@ export const OUTLINE: Readonly<Record<string, string>> = {
   "tools-side-road-road": "How to pick the corner and side the road runs along, how its length, area and each owner's share are worked out, and what to do when the road is impossible.",
   "tools-side-road-create": "How to actually create the properties and group from the calculation, their description and nickname, and how each owner is linked to their property as owner.",
   "tools-side-road-history": "Where to find past calculations, how to view their details and the divided property, re-run one on the same corners, or delete it while the properties it created stay.",
-  "tools-area": "The map's three guides under Tools (Measurements on map, Groupings of properties, Navigation): which buttons they show and how they open the map with the buttons blinking.",
+  "tools-area": "The map's three guides under Tools (Measurements on map, Groupings of properties, Navigation): which buttons they show — „Search the map” too — and how they open the map with the buttons blinking.",
   "tools-examples": "Step-by-step examples: building a form for a type that has none, splitting a plot between heirs with a road, and redoing a wrong calculation.",
   "tools-example-form": "Concrete steps when an import stopped for a type with no form: put samples in a folder, read them in DocTypeEngine, approve the form and restart.",
   "tools-example-road": "Concrete steps to split a plot between three heirs with an access road: the file, the order, the road, creating the properties and linking each heir.",

diff --git a/src/lib/manual/content/ro-RO/09-tools.ts b/src/lib/manual/content/ro-RO/09-tools.ts
@@ -150,7 +150,7 @@ Pictograma istoricului, singura de pe ecranul „Calcul drum lateral”, lângă
 
 - „Măsurători pe hartă” — „Unghiuri”, „Riglă”, „Suprafața unei zone delimitate” și „Suprafața unei zone oarecare” (secțiunile [[map-ruler]] și [[map-area]]).
 - „Grupări de proprietăți” — „Tarlale”, „Grupuri” și „Selectează” (secțiunile [[map-what-tarlale]], [[map-what-groups]] și [[map-select]]).
-- „Navigare” — „Navighează”, care stă pe ecranul proprietății și în bula unei proprietăți de pe hartă (secțiunea [[properties-navigate]]).
+- „Navigare” — „Navighează”, care stă pe ecranul proprietății și în bula unei proprietăți de pe hartă (secțiunea [[properties-navigate]]), și „Caută pe hartă”, lupa de pe harta tuturor proprietăților, care găsește un loc și zboară până la el (secțiunea [[map-search]]).
 
 La primele două, „OK” deschide harta tuturor proprietăților, „Toate Proprietățile”, cu butoanele acelea pulsând împreună, în violet, de trei ori; apoi se liniștesc. Niciunul nu este apăsat în locul dumneavoastră: apăsați-l pe cel de care aveți nevoie. Dacă reîncărcați pagina, butoanele sunt arătate din nou. La „Navigare”, „OK” doar închide caseta. Niciun ghid nu scrie ceva în arhivă.
 

diff --git a/src/lib/manual/content/en-GB/09-tools.ts b/src/lib/manual/content/en-GB/09-tools.ts
@@ -149,7 +149,7 @@ The history icon, the only one on the „Calculation of a Side Road” screen, b
 
 - „Measurements on map” — „Angles”, „Ruler”, „Area of a delimited zone” and „Area of any zone” (sections [[map-ruler]] and [[map-area]]).
 - „Groupings of properties” — „Tarlale”, „Groups” and „Select” (sections [[map-what-tarlale]], [[map-what-groups]] and [[map-select]]).
-- „Navigation” — „Navigate”, which is on the property's screen and in a property's bubble on the map (section [[properties-navigate]]).
+- „Navigation” — „Navigate”, which is on the property's screen and in a property's bubble on the map (section [[properties-navigate]]), and „Search the map”, the magnifier on the map of all properties, which finds a place and flies to it (section [[map-search]]).
 
 For the first two, „OK” opens the map of all properties, „All Properties”, with those buttons pulsing together, in violet, three times; then they settle. None is pressed for you: press the one you need. If you reload the page, the buttons are pointed out again. For „Navigation”, „OK” only closes the box. No guide writes anything to the archive.
 
